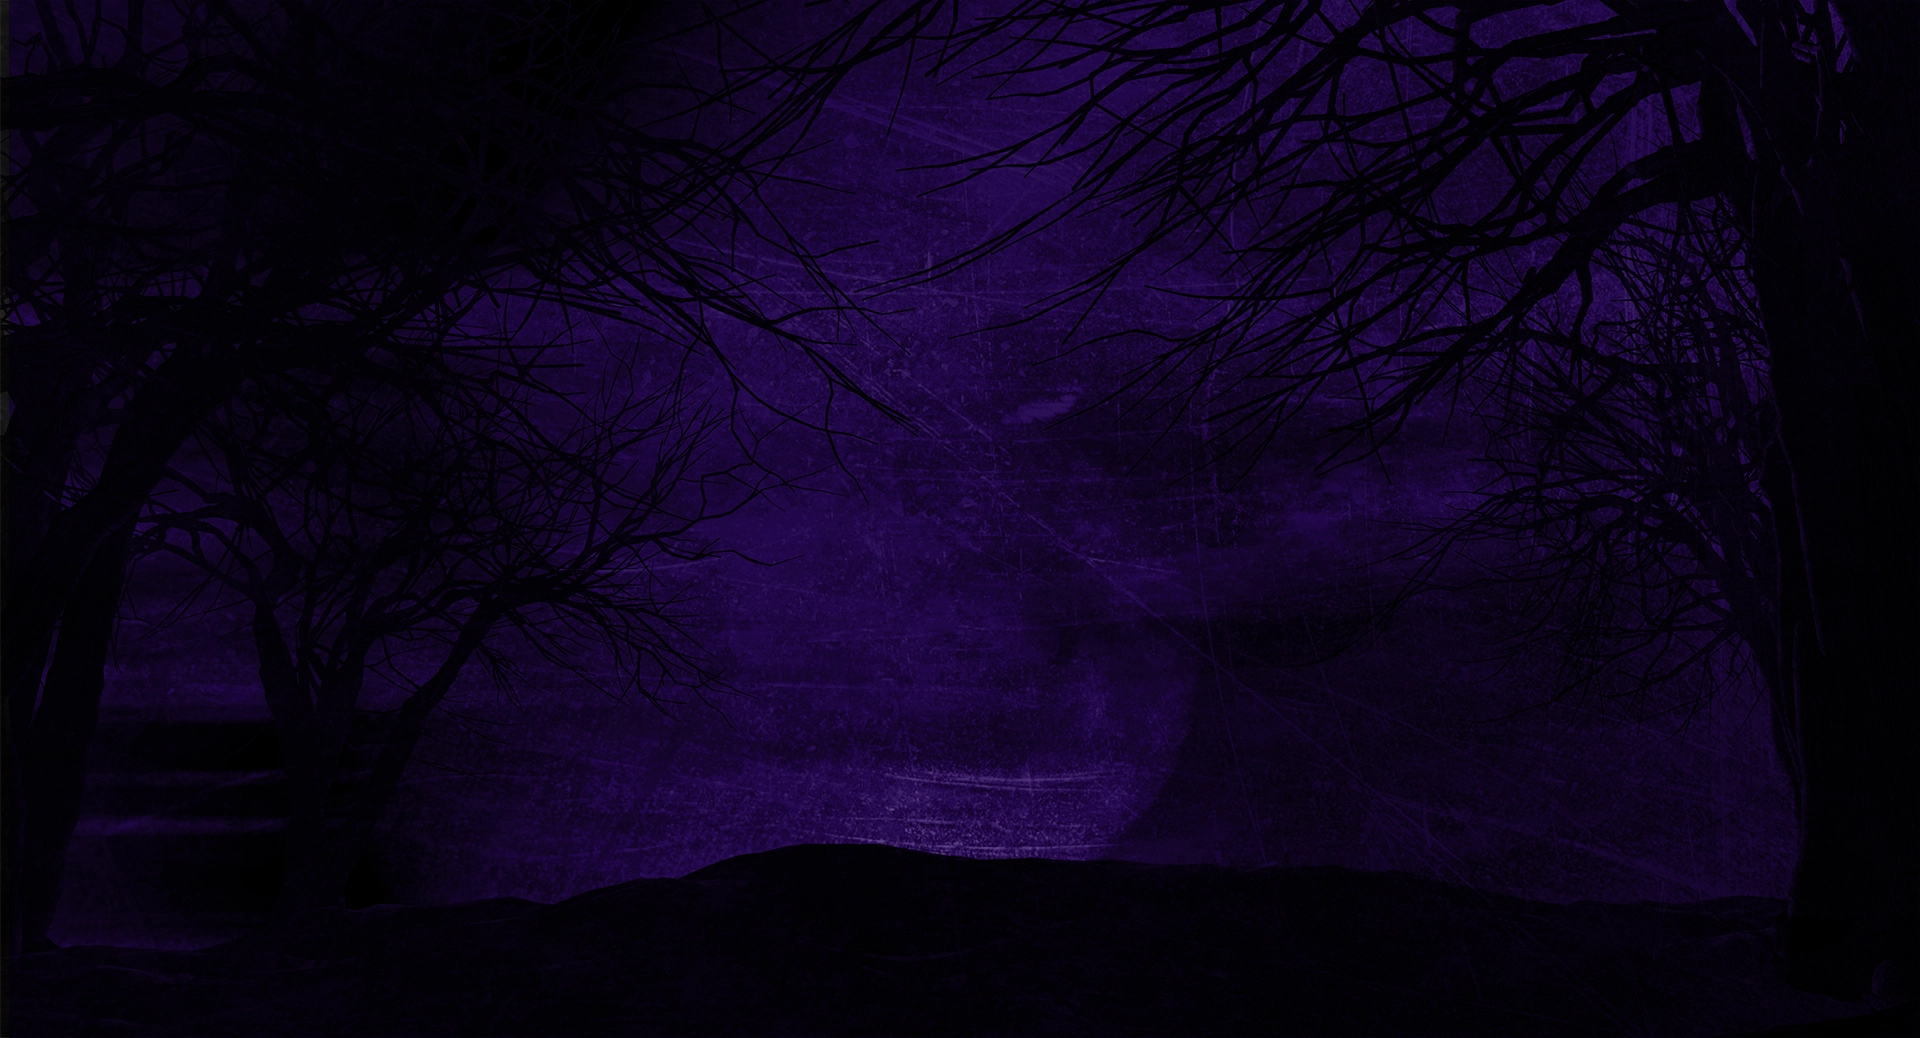
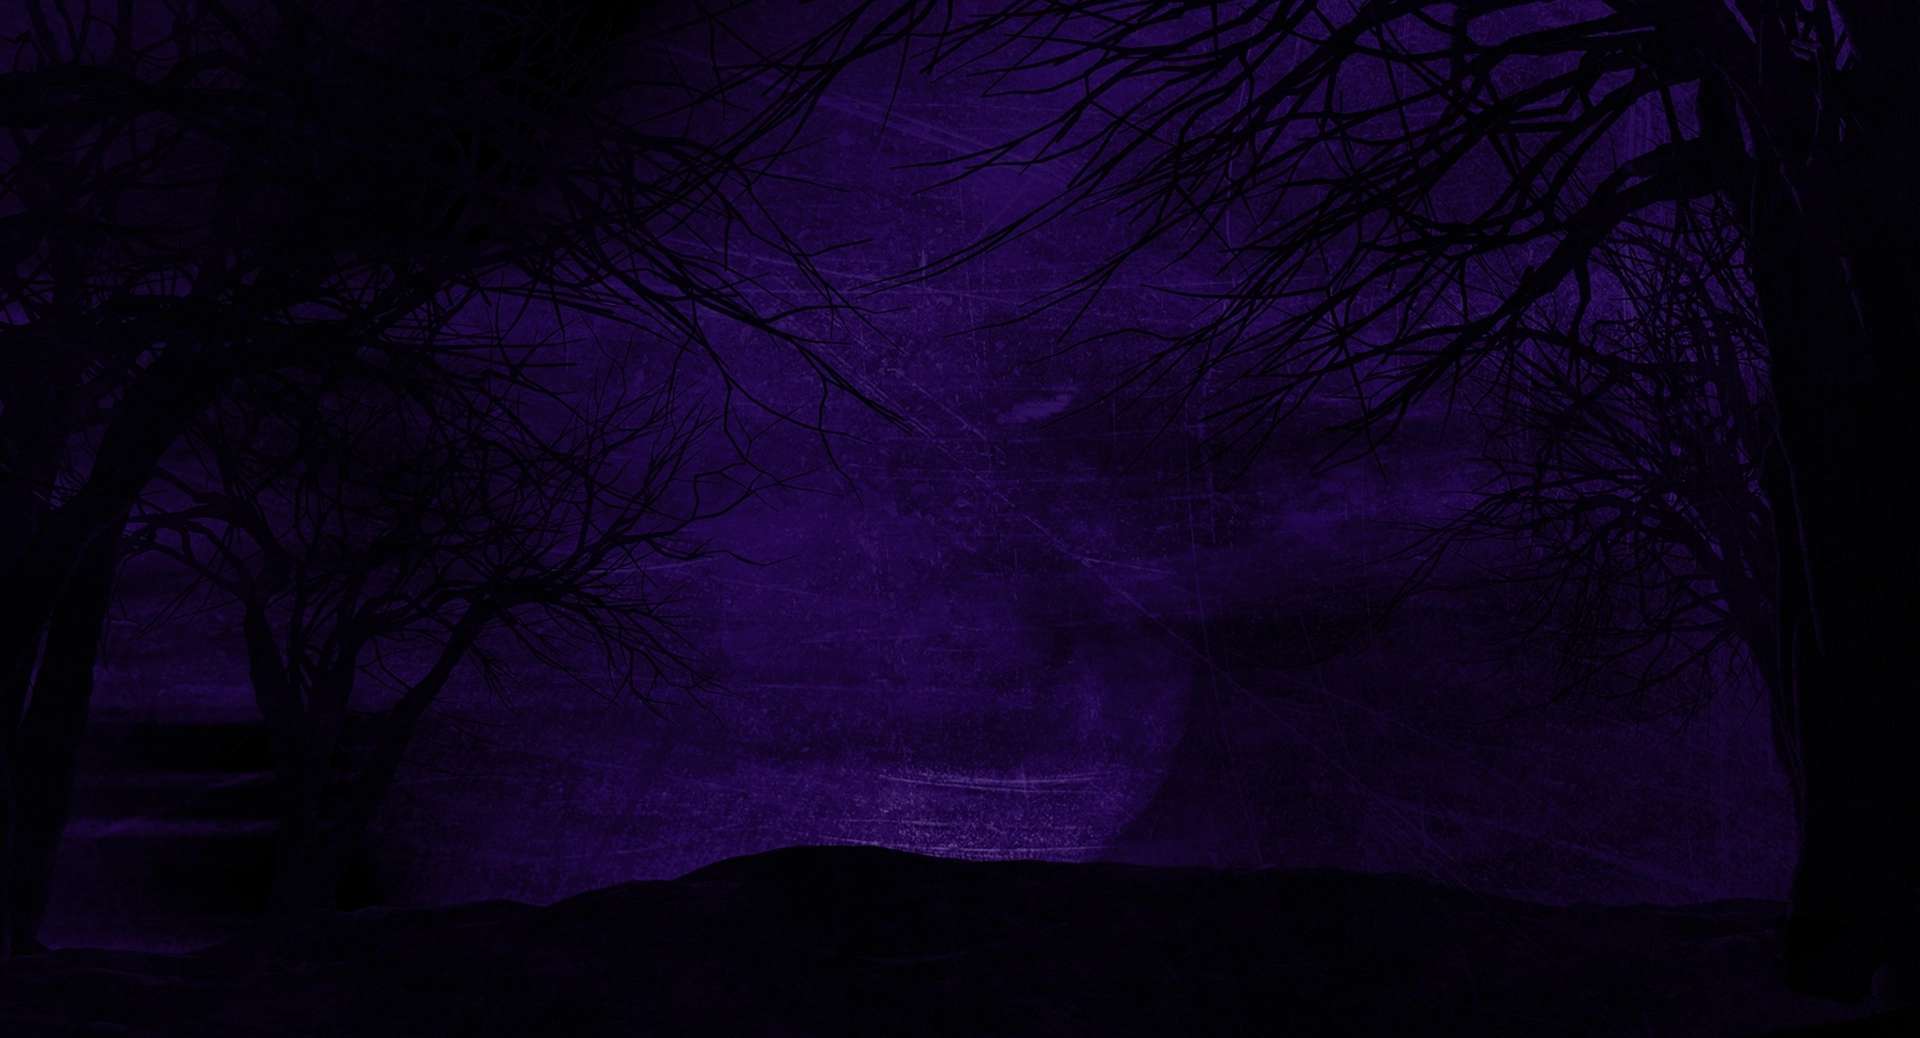
feat: add footer component and integrate it into layout
- Created a new Footer component with social media links and copyright information.
- Integrated the Footer component into the RootLayout to display it on all pages.
- Removed commented code from VideosSection for cleaner code.

diff --git a/src/components/sections/footer.tsx b/src/components/sections/footer.tsx
@@ -1,0 +1,54 @@
+import {
+  RiCopyrightLine,
+  RiInstagramLine,
+  RiWhatsappLine,
+  RiYoutubeLine,
+} from '@remixicon/react'
+import Image from 'next/image'
+import Link from 'next/link'
+
+export default function Footer() {
+  return (
+    <footer id="footer" className="bg-slate-950 brightness-75">
+      <div className="container mx-auto flex flex-col gap-8 px-4 py-14 md:flex-row">
+        <h2 className="font-heading text-4xl text-slate-400 uppercase">
+          @banda_headpuppets
+        </h2>
+
+        <div className="flex gap-8">
+          <Link
+            href="https://www.instagram.com/banda_headpuppets"
+            target="_blank"
+          >
+            <RiInstagramLine className="size-11 cursor-pointer text-accent hover:text-primary" />
+          </Link>
+          <Link
+            href="https://www.youtube.com/@BandaHeadPuppets"
+            target="_blank"
+          >
+            <RiYoutubeLine className="size-11 cursor-pointer text-accent hover:text-primary" />
+          </Link>
+          <Link href="https://wa.me/" target="_blank">
+            <RiWhatsappLine className="size-11 cursor-pointer text-accent hover:text-primary" />
+          </Link>
+        </div>
+      </div>
+
+      <div
+        id="agenda"
+        className="flex flex-col items-center gap-2 bg-[url('/grunge-bg.webp')] px-4 py-14"
+      >
+        <Image
+          src="/head-puppets-logo-puppet.svg"
+          width={150}
+          height={144}
+          alt="Banda Head Puppets logo"
+        />
+        <div className="flex items-center gap-1 text-foreground text-sm">
+          {new Date().getFullYear()} <RiCopyrightLine className="size-4" />{' '}
+          Todos os direitos reservados
+        </div>
+      </div>
+    </footer>
+  )
+}

diff --git a/src/app/layout.tsx b/src/app/layout.tsx
@@ -3,6 +3,7 @@ import { Boldonse, Google_Sans_Flex } from 'next/font/google'
 import './globals.css'
 
 import Header from '@/components/header'
+import Footer from '@/components/sections/footer'
 
 const googlSansFlex = Google_Sans_Flex({
   variable: '--font-sans',
@@ -37,6 +38,7 @@ export default function RootLayout({
         <main>
           <Header />
           {children}
+          <Footer />
         </main>
       </body>
     </html>

diff --git a/src/components/sections/videos.tsx b/src/components/sections/videos.tsx
@@ -41,7 +41,6 @@ export default function VideosSection() {
                 key={video.id}
                 className="overflow-hidden rounded-xl border border-slate-900"
               >
-                {/* O componente YouTubeEmbed já faz o Facade automaticamente! */}
                 <YouTubeEmbed videoid={videoId} params="rel=0" />
 
                 <div className="bg-card p-4">